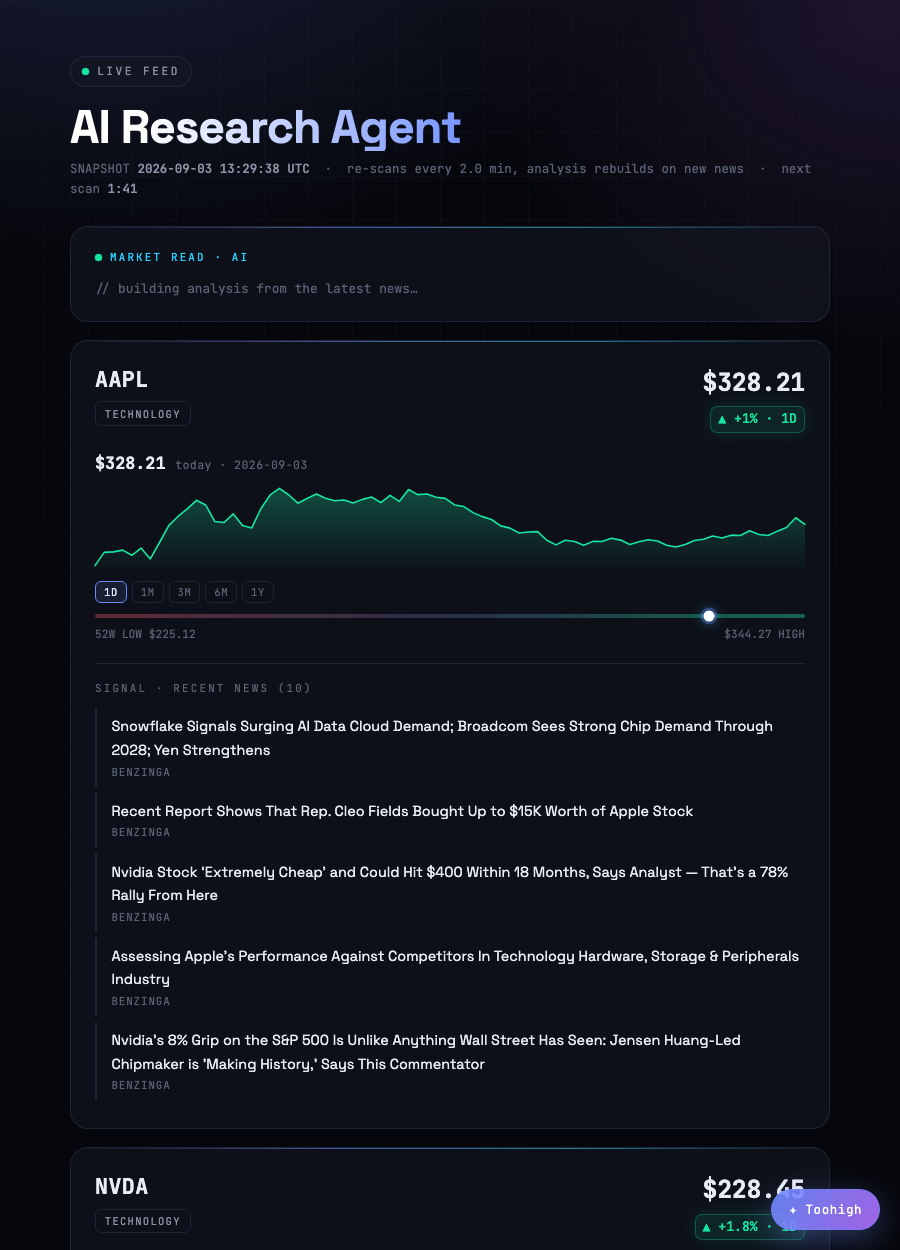
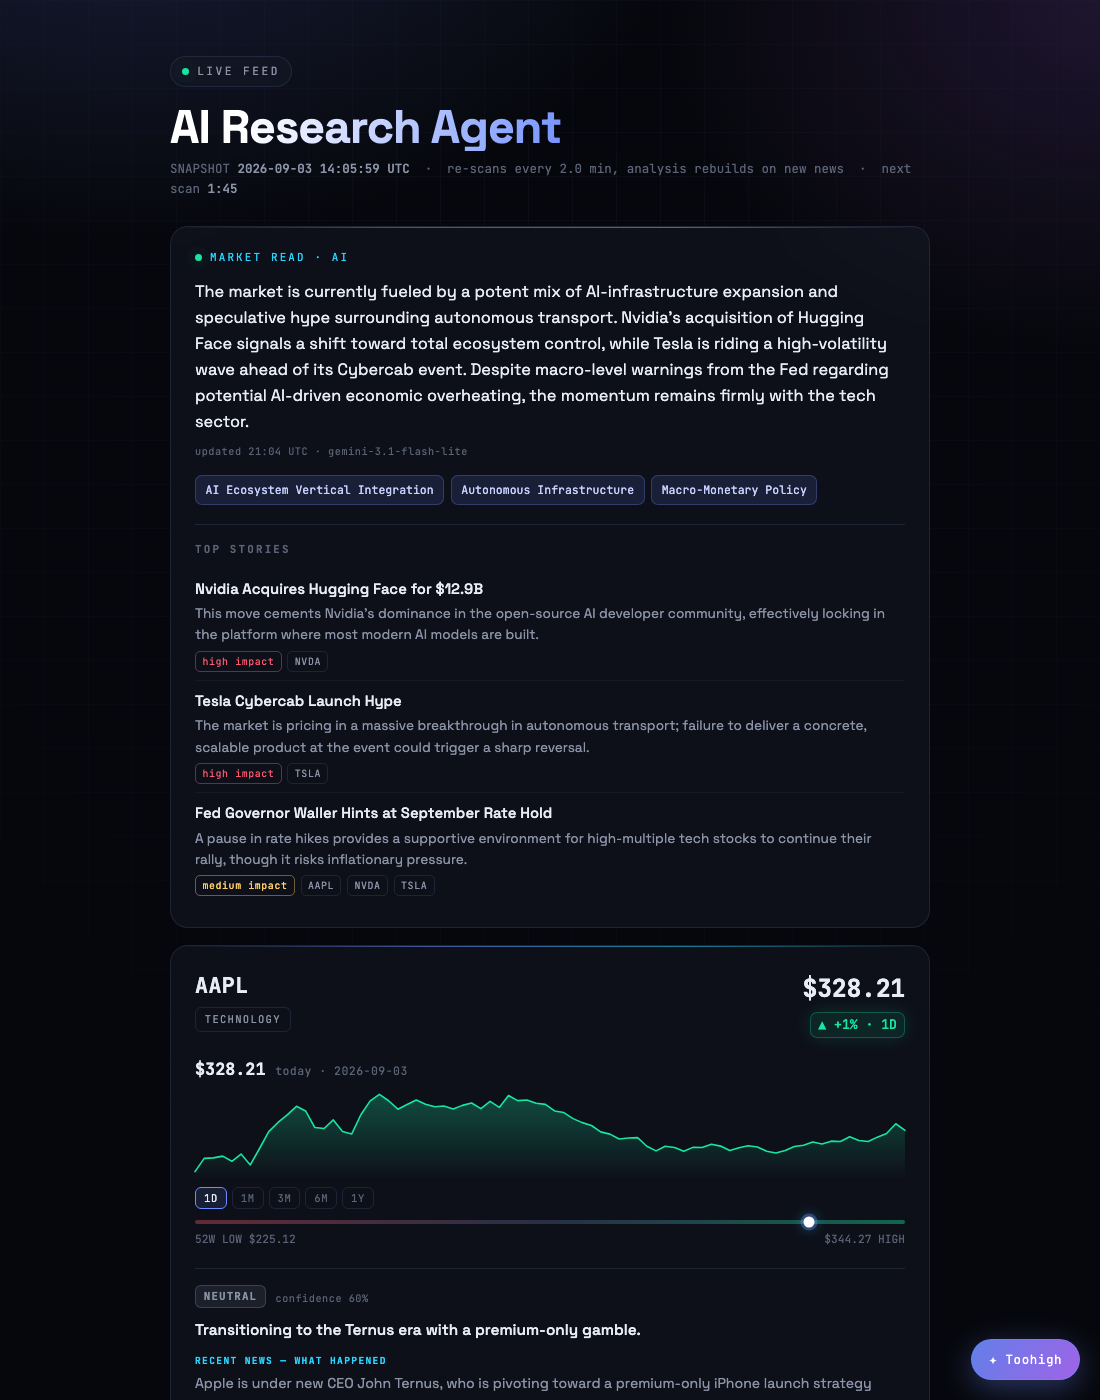
Mobile readability + Enter-to-send; stop refresh churn
Mobile (<=560px): 16px base font (also kills iOS focus-zoom), the small mono
labels bumped to ~11-15px, tighter padding, header explainer hidden, chat is
true full-screen (100dvh + safe-area) with larger text.

Chat: explicit Enter-to-send key handler + enterkeyhint='send' so phone
keyboards actually submit; input font 16px.

Polish: softRefresh no longer redraws a chart while it's being scrubbed
(_updateChart bails if dragging); renderRead only rebuilds the DOM when
generated_at changes, and keeps the last good read through a transient blip
instead of flashing 'building…'.

diff --git a/templates/index.html b/templates/index.html
@@ -323,24 +323,61 @@
     .chat-hint { font-family: var(--mono); font-size: .72rem; color: var(--dim); padding: 0 1rem .4rem; }
     .chat-form { display: flex; gap: .5rem; padding: .8rem 1rem 1rem; border-top: 1px solid var(--border); }
     .chat-form input {
-      flex: 1; background: rgba(255,255,255,.04); border: 1px solid var(--border);
+      flex: 1; min-width: 0; background: rgba(255,255,255,.04); border: 1px solid var(--border);
       border-radius: 10px; padding: .6rem .8rem; color: var(--text);
-      font-family: var(--sans); font-size: .9rem; outline: none;
+      font-family: var(--sans); font-size: 16px; outline: none;  /* 16px: no iOS zoom */
     }
     .chat-form input:focus { border-color: var(--accent); }
     .chat-form button {
       border: none; border-radius: 10px; padding: 0 1rem; cursor: pointer;
-      font-family: var(--mono); font-size: .8rem; color: #fff;
+      font-family: var(--mono); font-size: .8rem; color: #fff; flex-shrink: 0;
       background: linear-gradient(120deg, var(--accent), var(--accent-2));
     }
     .chat-form button:disabled { opacity: .5; cursor: not-allowed; }
 
-    @media (max-width: 480px) {
-      body { padding-top: 2.5rem; }
-      .price { font-size: 1.3rem; }
-      .ticker { font-size: 1.15rem; }
-      .chat { right: 0; bottom: 0; width: 100vw; height: 82vh; border-radius: 18px 18px 0 0; }
-      .chat-toggle { right: 1rem; bottom: 1rem; }
+    /* ---------- phones ---------- */
+    @media (max-width: 560px) {
+      body { padding: 2rem .85rem 6rem; font-size: 16px; }
+      .wrap { max-width: 100%; }
+      h1 { font-size: 1.9rem; }
+      .meta { font-size: .8rem; line-height: 1.7; }
+      .meta .m-hide { display: none; }          /* drop the long explainer */
+
+      .card { padding: 1.15rem 1.1rem; border-radius: 15px; }
+      .ticker { font-size: 1.2rem; }
+      .price { font-size: 1.35rem; }
+      .delta { font-size: .82rem; }
+      .chip { font-size: .68rem; }
+
+      /* bump the small mono labels so they're legible */
+      .read-card .kicker, .stories h3, .news-head,
+      .tread-head .stance, .tread .block h4 { font-size: .72rem; }
+      .read-card .summary { font-size: 1rem; }
+      .theme, .story .h, .news a { font-size: .95rem; }
+      .story .w, .tread .block p, .tread .lede { font-size: .93rem; }
+      .news .src, .conf-label, .read-stamp, .cr-date { font-size: .72rem; }
+      .itag { font-size: .66rem; }
+      footer { font-size: .74rem; }
+
+      .cr-price { font-size: 1.1rem; }
+      .chart-plot { height: 104px; }
+      .chart-ranges button { font-size: .78rem; padding: .35rem .7rem; }
+
+      /* full-screen chat that plays nice with the on-screen keyboard */
+      .chat {
+        right: 0; left: 0; bottom: 0; top: auto;
+        width: 100%; height: 100vh; height: 100dvh; max-height: 100dvh; border-radius: 0;
+      }
+      .chat-head { padding: 1rem; }
+      .chat-head .t { font-size: .9rem; }
+      .chat-head button { font-size: 1.6rem; padding: .2rem .5rem; }
+      .chat-log { padding: 1rem .9rem; gap: 1rem; }
+      .msg { font-size: 15px; }
+      .msg .who { font-size: .64rem; }
+      .msg.bot code { font-size: .86rem; }
+      .chat-form { padding: .75rem .9rem calc(.9rem + env(safe-area-inset-bottom)); }
+      .chat-form button { padding: 0 1.1rem; font-size: .85rem; }
+      .chat-toggle { right: 1rem; bottom: calc(1rem + env(safe-area-inset-bottom)); font-size: .82rem; padding: .75rem 1.15rem; }
     }
     @media (prefers-reduced-motion: reduce) {
       .card { animation: none; opacity: 1; transform: none; }
@@ -355,7 +392,7 @@
       <h1>AI Research Agent</h1>
       <div class="meta">
         SNAPSHOT <b id="snap-time">{{ fetched_at.strftime("%Y-%m-%d %H:%M:%S UTC") }}</b>
-        &nbsp;·&nbsp; re-scans every {{ (refresh_secs / 60)|round(1) }} min, analysis rebuilds on new news
+        <span class="m-hide">&nbsp;·&nbsp; re-scans every {{ (refresh_secs / 60)|round(1) }} min, analysis rebuilds on new news</span>
         &nbsp;·&nbsp; next scan <b id="countdown">{{ "%d:%02d"|format(next_refresh // 60, next_refresh % 60) }}</b>
       </div>
     </header>
@@ -473,8 +510,10 @@
       <div class="msg bot"><span class="who">Toohigh</span>Hello, my name is Toohigh and I am an AI agent for research. Ask me anything about what's on screen.</div>
     </div>
     <form class="chat-form" id="chat-form">
-      <input id="chat-input" type="text" autocomplete="off" placeholder="Message Toohigh…" />
-      <button type="submit" id="chat-send">Send</button>
+      <input id="chat-input" type="text" inputmode="text" enterkeyhint="send"
+             autocomplete="off" autocapitalize="sentences" autocorrect="on"
+             placeholder="Message Toohigh…" />
+      <button type="submit" id="chat-send" aria-label="Send">Send</button>
     </form>
   </div>
   {% endif %}
@@ -603,6 +642,7 @@
 
       // called by softRefresh() with fresh data — keeps the selected range
       el._updateChart = function (newDaily, newIntra, up) {
+        if (dragging) return;   // don't yank the chart out from under a scrub
         if (newDaily && newDaily.c && newDaily.c.length > 1) daily = newDaily;
         intra = newIntra || null;
         stroke = up ? "#17e6a1" : "#ff5c72";
@@ -673,9 +713,11 @@
       });
     };
 
+    var lastReadStamp = null;
     function renderRead(a) {
       var body = document.getElementById("read-body");
       if (!a || a.status !== "ok") {
+        if (lastReadStamp) return;   // keep the last good read on a transient blip
         body.classList.remove("skeleton");
         var note = a && a.status === "pending"
           ? "// building analysis from the latest news…"
@@ -685,6 +727,8 @@
         body.innerHTML = '<div class="empty" style="font-family:var(--mono);color:var(--dim);font-size:.8rem">' + note + "</div>";
         return;
       }
+      if (a.generated_at && a.generated_at === lastReadStamp) return;  // no change → no re-render
+      lastReadStamp = a.generated_at || null;
       body.classList.remove("skeleton");
       var when = a.generated_at ? String(a.generated_at).slice(11, 16) + " UTC" : "";
       var html = '<div class="summary">' + esc(a.market_summary) + "</div>";
@@ -799,6 +843,14 @@
       el.innerHTML = '<span class="who">Toohigh</span>' + md(text);
       log.scrollTop = log.scrollHeight;
     }
+
+    // Enter always sends (some mobile keyboards don't submit the form on their own)
+    input.addEventListener("keydown", function (e) {
+      if (e.key === "Enter" && !e.shiftKey) {
+        e.preventDefault();
+        if (!send.disabled) form.requestSubmit ? form.requestSubmit() : form.dispatchEvent(new Event("submit", { cancelable: true }));
+      }
+    });
 
     form.addEventListener("submit", function (e) {
       e.preventDefault();

diff --git a/CHANGELOG.md b/CHANGELOG.md
@@ -8,6 +8,22 @@ This project is pre-1.0; the API and schema may change between entries.
 - Phase 3: historical backtesting harness (+ the deferred confidence-calibration
   tracking and per-call usage logging).
 
+## [0.2.6] — 2026-09-03
+
+### Fixed / mobile
+- Readable on phones: 16px base text (also stops iOS zooming the page when the
+  chat input is focused), the tiny monospace labels bumped up, tighter page
+  padding, the header's long explainer hidden on narrow screens.
+- Chat is genuinely full-screen on a phone (`100dvh`, safe-area padding) with
+  larger message text.
+- **Enter always sends** in the chat — explicit key handler plus
+  `enterkeyhint="send"`, so mobile keyboards submit instead of doing nothing.
+
+### Fixed / polish
+- A background data refresh no longer yanks the chart mid-scrub, and the market
+  read only re-renders when the analysis actually changes (was rebuilding every
+  15s). A transient analysis blip keeps the last good read on screen.
+
 ## [0.2.5] — 2026-09-03
 
 ### Changed
